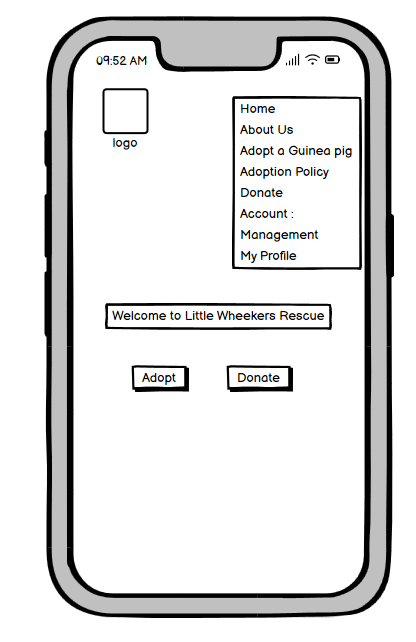
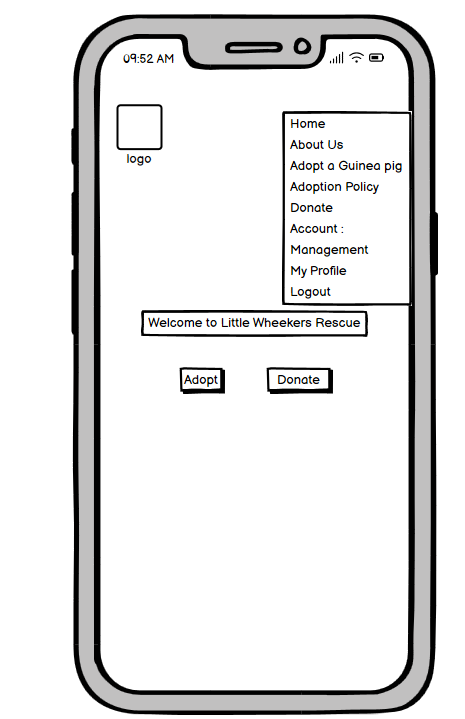
Add : tablet wireframes

Changed region(s): [[0.0938, 0.0, 0.9688, 0.9969], [0.2812, 0.2181, 0.3438, 0.2492]]

diff --git a/README.md b/README.md
@@ -129,11 +129,17 @@ Management
 Home
   - ![screenshot](documentation/wireframes/tablet-home.png)
 
+Home Admin
+  - ![screenshot](documentation/wireframes/tablet-home-admin.png)
+
 About Us
   - ![screenshot](documentation/wireframes/tablet-about-us.png)
 
 Adopt a Guinea pig
   - ![screenshot](documentation/wireframes/tablet-adopt-guinea-pig.png)
+
+Adopt a Guinea pig Admin
+  - ![screenshot](documentation/wireframes/tablet-adopt-guinea-pig-admin.png)
 
 Adoption Policy
   - ![screenshot](documentation/wireframes/tablet-adoption-policy.png)
@@ -165,11 +171,17 @@ Management
 Home
   - ![screenshot](documentation/wireframes/desktop-home.png)
 
+Home Admin
+  - ![screenshot](documentation/wireframes/desktop-home-admin.png)
+
 About Us
   - ![screenshot](documentation/wireframes/desktop-about-us.png)
 
 Adopt a Guinea pig
   - ![screenshot](documentation/wireframes/desktop-adopt-guinea-pig.png)
+
+Adopt a Guinea pig Admin
+  - ![screenshot](documentation/wireframes/desktop-adopt-guinea-pig-admin.png)
 
 Adoption Policy
   - ![screenshot](documentation/wireframes/desktop-adoption-policy.png)
